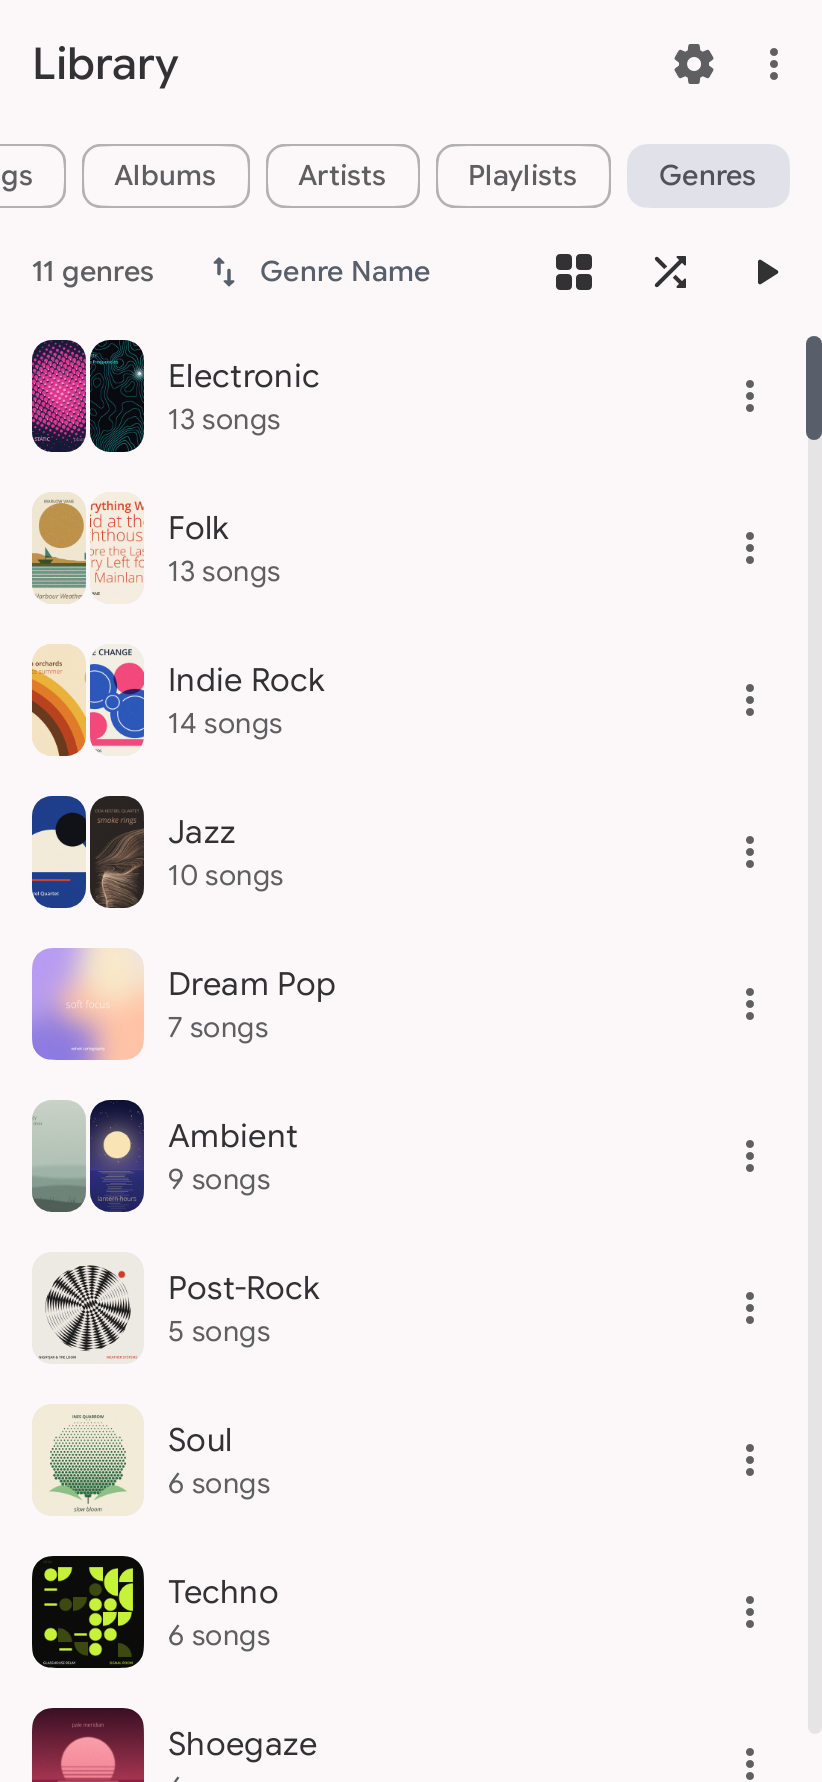
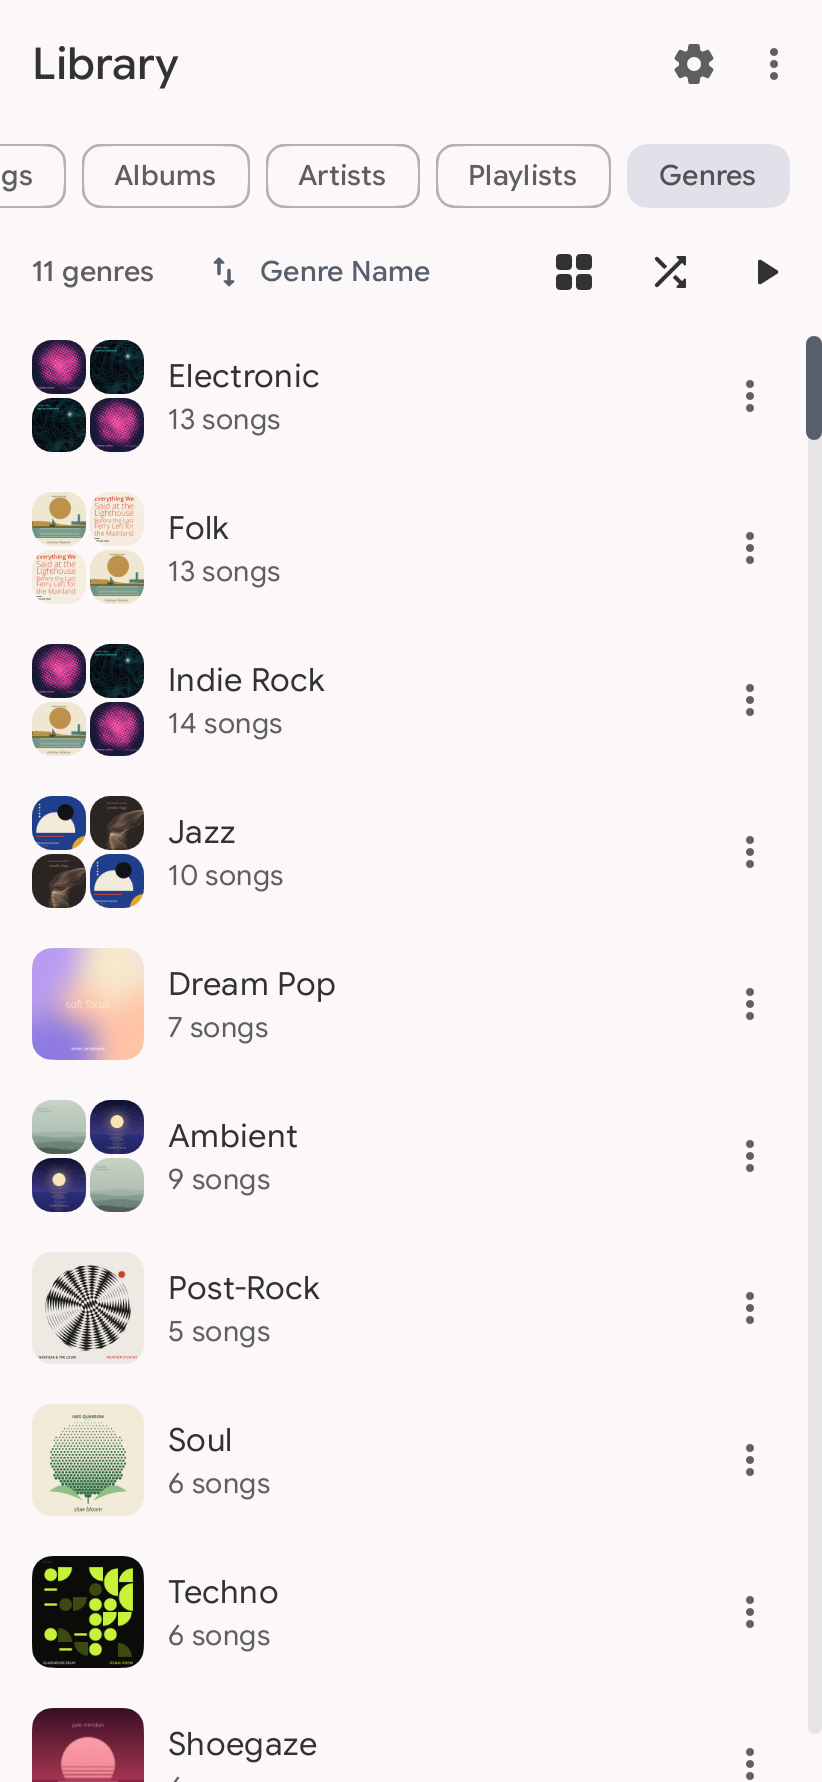
fix(app): cover mosaics keep covers square (#135)
Changelog: none

Changed region(s): [[0.0304, 0.1852, 0.1825, 0.5247], [0.0304, 0.6173, 0.1825, 0.679]]

diff --git a/android/app/src/main/java/com/simplecityapps/shuttle/ui/screens/library/LibraryComponents.kt b/android/app/src/main/java/com/simplecityapps/shuttle/ui/screens/library/LibraryComponents.kt
@@ -133,8 +133,9 @@ val Song.rowSubtitle: String
 private val MosaicGap = 2.dp
 
 /**
- * Artwork from [covers] (#491, #646, #135): a 2x2 mosaic of four albums' covers, two or three filling the tile, the one
- * cover alone, or [placeholder] with none. [size] is the whole mosaic's; the caller's [modifier] may override it, as for [Artwork].
+ * Artwork from [covers] (#491, #646, #135): a 2x2 mosaic of four albums' covers, or fewer repeated so every cell stays a
+ * square, uncropped cover ([mosaicCells]); the one cover alone, or [placeholder] with none. [size] is the whole mosaic's;
+ * the caller's [modifier] may override it, as for [Artwork].
  */
 @Composable
 fun CoverMosaic(
@@ -149,31 +150,21 @@ fun CoverMosaic(
     }
     val cellSize = if (size == ArtworkSize.Grid || size == ArtworkSize.Hero) ArtworkSize.Medium else ArtworkSize.Small
     val gap = Arrangement.spacedBy(MosaicGap)
-
-    @Composable
-    fun Cell(song: Song, cellModifier: Modifier) = LibraryArtwork(song, ArtworkPlaceholder.Album, cellModifier, size = cellSize)
-    if (covers.size < MOSAIC_COVERS) {
-        // Two covers split the tile; three give the first the left half and stack the others on the right.
-        Row(modifier.size(size.dp), horizontalArrangement = gap) {
-            Cell(covers[0], Modifier.weight(1f).fillMaxHeight())
-            if (covers.size == 2) {
-                Cell(covers[1], Modifier.weight(1f).fillMaxHeight())
-            } else {
-                Column(Modifier.weight(1f).fillMaxHeight(), verticalArrangement = gap) {
-                    Cell(covers[1], Modifier.weight(1f).fillMaxWidth())
-                    Cell(covers[2], Modifier.weight(1f).fillMaxWidth())
-                }
-            }
-        }
-        return
-    }
     Column(modifier.size(size.dp), verticalArrangement = gap) {
-        covers.take(MOSAIC_COVERS).chunked(2).forEach { pair ->
+        mosaicCells(covers).chunked(2).forEach { pair ->
             Row(Modifier.weight(1f).fillMaxWidth(), horizontalArrangement = gap) {
-                pair.forEach { song -> Cell(song, Modifier.weight(1f).fillMaxHeight()) }
+                pair.forEach { song -> LibraryArtwork(song, ArtworkPlaceholder.Album, Modifier.weight(1f).fillMaxHeight(), size = cellSize) }
             }
         }
     }
 }
 
-private const val MOSAIC_COVERS = 4
+/**
+ * The four cells of a 2x2 mosaic, row by row, for two to four [covers]: two alternate as a checkerboard (A B / B A),
+ * three repeat the first (A B / C A), four fill it as they are.
+ */
+internal fun mosaicCells(covers: List<Song>): List<Song> = when (covers.size) {
+    2 -> listOf(covers[0], covers[1], covers[1], covers[0])
+    3 -> listOf(covers[0], covers[1], covers[2], covers[0])
+    else -> covers.take(4)
+}

diff --git a/android/app/src/test/java/com/simplecityapps/shuttle/ui/screens/library/LibraryScreenshotTest.kt b/android/app/src/test/java/com/simplecityapps/shuttle/ui/screens/library/LibraryScreenshotTest.kt
@@ -173,8 +173,10 @@ class LibraryScreenshotTest {
             libraryControls("${genres.size} genres", sorts("Genre Name", "Song Count"), ViewMode.List, onPlay = {}, onShuffle = {}),
             LibraryPageStates(
                 genres = readyGenreList(genres),
+                // The sample genres hold one or two albums; Indie Rock borrows three so the shot shows every mosaic layout.
                 genreCovers = SampleLibrary.genres.associate { genre ->
-                    genre.name to genre.songs.map { it.toSong() }.distinctBy { it.albumGroupKey }.take(4)
+                    val songs = if (genre.name == "Indie Rock") SampleLibrary.songs else genre.songs
+                    genre.name to songs.map { it.toSong() }.distinctBy { it.albumGroupKey }.take(if (genre.name == "Indie Rock") 3 else 4)
                 },
             ),
         )

diff --git a/android/app/src/test/java/com/simplecityapps/shuttle/ui/screens/library/CoverMosaicTest.kt b/android/app/src/test/java/com/simplecityapps/shuttle/ui/screens/library/CoverMosaicTest.kt
@@ -1,0 +1,24 @@
+package com.simplecityapps.shuttle.ui.screens.library
+
+import com.simplecityapps.createSong
+import org.junit.Assert.assertEquals
+import org.junit.Test
+
+class CoverMosaicTest {
+    private val covers = (1..4L).map { createSong(id = it, name = "Track $it", album = "Album $it") }
+
+    @Test
+    fun `two covers make a checkerboard`() {
+        assertEquals(listOf(1L, 2L, 2L, 1L), mosaicCells(covers.take(2)).map { it.id })
+    }
+
+    @Test
+    fun `three covers repeat the first in the last cell`() {
+        assertEquals(listOf(1L, 2L, 3L, 1L), mosaicCells(covers.take(3)).map { it.id })
+    }
+
+    @Test
+    fun `four covers fill the grid as they are`() {
+        assertEquals(listOf(1L, 2L, 3L, 4L), mosaicCells(covers).map { it.id })
+    }
+}

diff --git a/android/presentation/src/commonMain/kotlin/com/simplecityapps/shuttle/ui/screens/library/genres/GenreCoversViewModel.kt b/android/presentation/src/commonMain/kotlin/com/simplecityapps/shuttle/ui/screens/library/genres/GenreCoversViewModel.kt
@@ -17,8 +17,8 @@ import kotlinx.coroutines.flow.stateIn
 
 /**
  * Each genre's mosaic covers by genre name (#643): up to four songs from different albums. Apart from
- * [GenreListViewModel] so a screen that draws no genre artwork (Android's list) never runs the per-genre queries;
- * the list shows first and a screen that also observes this fills its artwork in as the covers load.
+ * [GenreListViewModel] so the list shows first and the artwork fills in as the covers load, and a screen that draws no
+ * genre artwork never runs the per-genre queries.
  */
 @OptIn(ExperimentalCoroutinesApi::class)
 @ViewModelKey(GenreCoversViewModel::class)
